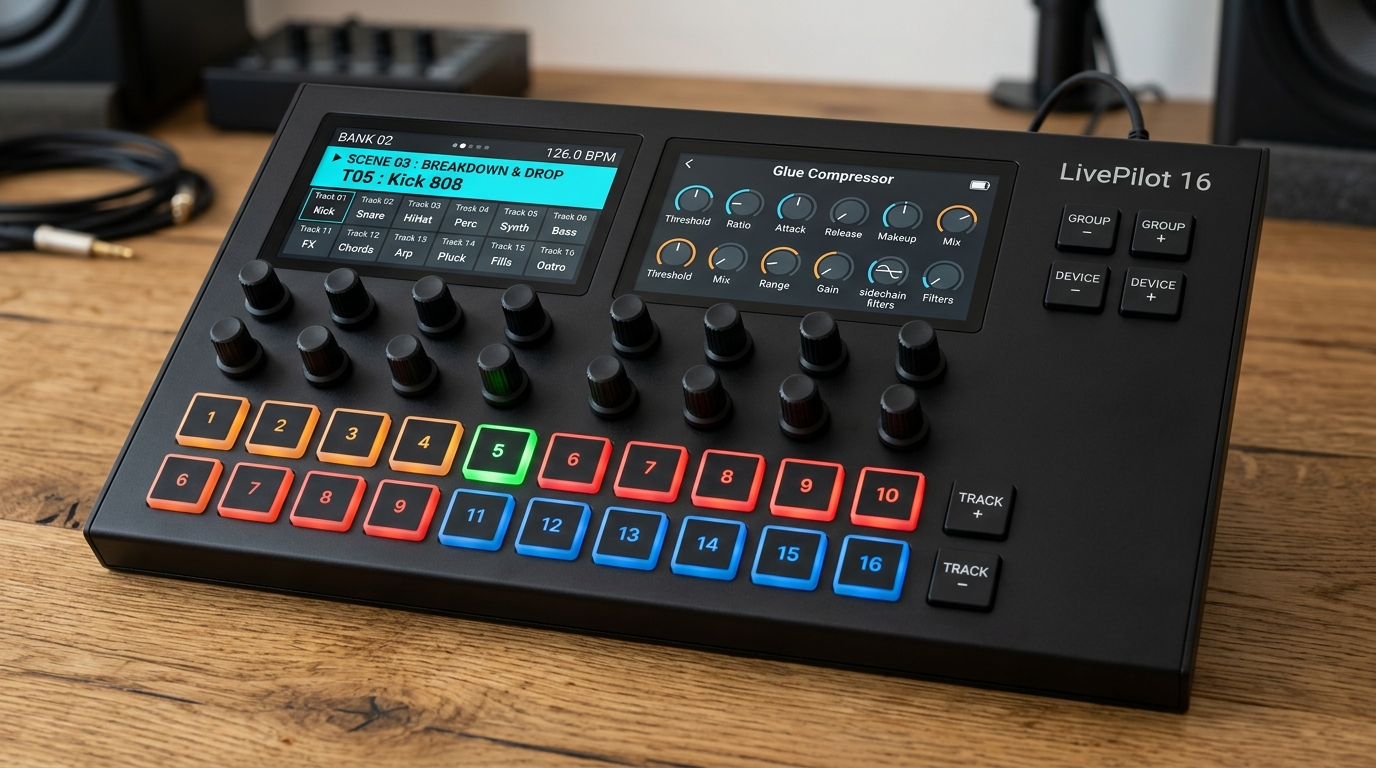
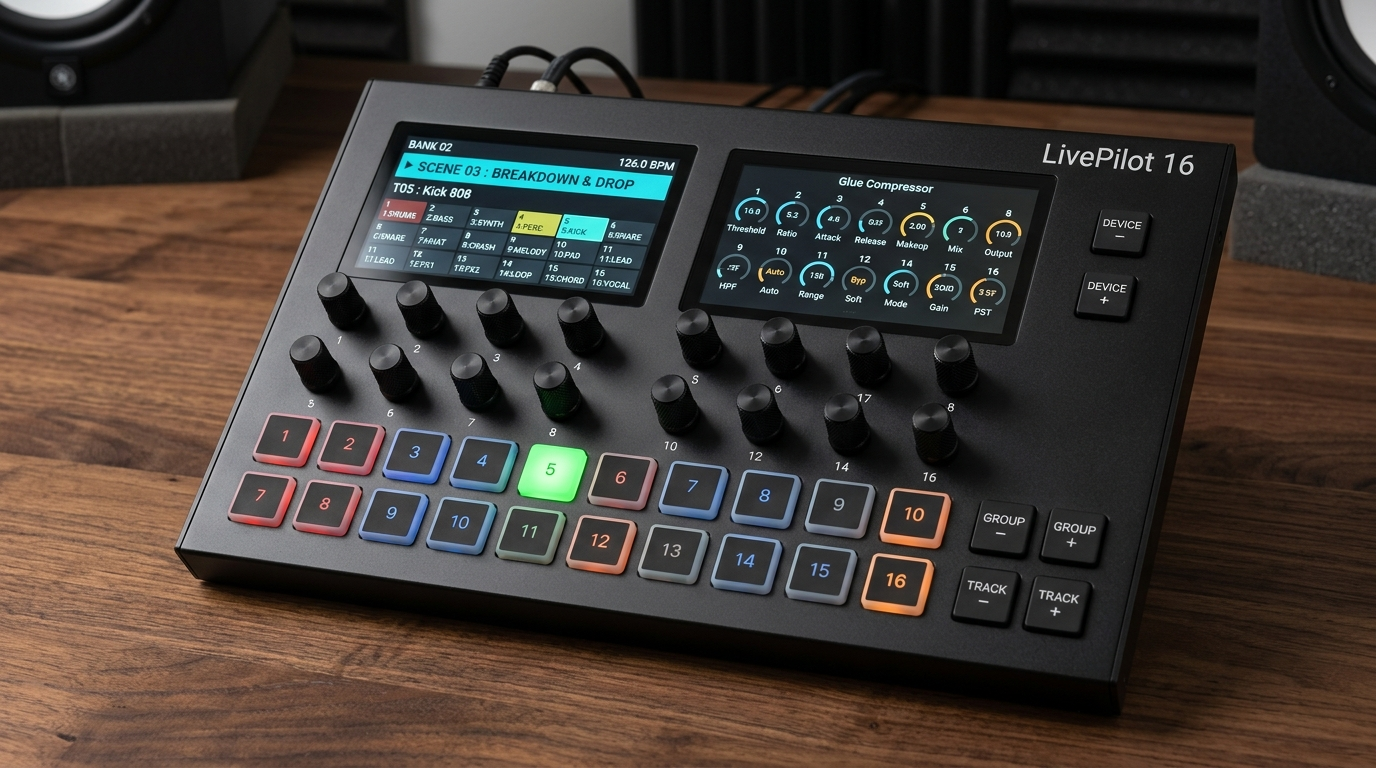
fix(hardware): update 6-nav button layout with TRACK -/+ in bottom row, GROUP -/+ in upper row of 2x2 pad cluster, and DEVICE -/+ near plugin screen

diff --git a/hardware/WIRING_GUIDE.md b/hardware/WIRING_GUIDE.md
@@ -175,15 +175,19 @@ Les 6 boutons de navigation sont câblés directement sur des broches GPIO indé
 
 | Touche de Navigation | Broche ESP32-S3 | Autre Côté du Switch | Emplacement Physique & Rôle |
 |---|---|---|---|
-| **`TRACK +`** | **GPIO 16** | `GND` | **À droite de la Rangée 1 des pads (Pistes 1-8)** : Saut banque suivante (+16) |
-| **`TRACK -`** | **GPIO 15** | `GND` | **À droite de la Rangée 2 des pads (Pistes 9-16)** : Saut banque précédente (-16) |
-| **`GROUP -`** | **GPIO 17** | `GND` | **Cluster Supérieur Droit** : Macro-saut vers le bus/groupe précédent |
-| **`GROUP +`** | **GPIO 18** | `GND` | **Cluster Supérieur Droit** : Macro-saut vers le bus/groupe suivant |
-| **`DEVICE -`** | **GPIO 1** | `GND` | **Cluster Supérieur Droit** : Plugin assigné précédent (si $> 1$) |
-| **`DEVICE +`** | **GPIO 2** | `GND` | **Cluster Supérieur Droit** : Plugin assigné suivant (si $> 1$) |
+| **`GROUP -`** | **GPIO 17** | `GND` | **Pavé Pistes (Rangée Haute, niveau Pistes 1-8, gauche)** : Groupe précédent |
+| **`GROUP +`** | **GPIO 18** | `GND` | **Pavé Pistes (Rangée Haute, niveau Pistes 1-8, droite)** : Groupe suivant |
+| **`TRACK -`** | **GPIO 15** | `GND` | **Pavé Pistes (Rangée Basse, niveau Pistes 9-16, gauche)** : Banque précédente (-16) |
+| **`TRACK +`** | **GPIO 16** | `GND` | **Pavé Pistes (Rangée Basse, niveau Pistes 9-16, droite)** : Banque suivante (+16) |
+| **`DEVICE -`** | **GPIO 1** | `GND` | **Haut Droit (Niveau Écran Plugins / Encodeurs)** : Plugin assigné précédent (si $> 1$) |
+| **`DEVICE +`** | **GPIO 2** | `GND` | **Haut Droit (Niveau Écran Plugins / Encodeurs)** : Plugin assigné suivant (si $> 1$) |
 
 > [!TIP]
-> **Ergonomie Réflexe Immédiate :** Placer `TRACK +` et `TRACK -` directement dans l'alignement horizontal des touches de pistes permet de changer de banque sans jamais déplacer la paume de la main vers le haut du contrôleur.
+> **Ergonomie Réflexe Immédiate :**  
+> Le pavé 2×2 situé à droite des 16 touches de pistes regroupe toute la navigation de session :
+> * En bas : `TRACK -` et `TRACK +` pour faire défiler les banques de 16 pistes.
+> * Juste au-dessus : `GROUP -` et `GROUP +` pour sauter directement d'un groupe/bus à l'autre.
+> * En haut, face à l'écran de droite : `DEVICE -` et `DEVICE +` pour feuilleter les plugins de la piste active.
 
 *Chaque entrée utilise la résistance de rappel au 3.3V interne de l'ESP32-S3 (`pinMode(pin, INPUT_PULLUP)`). Aucun composant externe n'est requis.*
 

diff --git a/CAHIER_DES_CHARGES.md b/CAHIER_DES_CHARGES.md
@@ -216,12 +216,12 @@ L'interface de **LivePilot 16** a été calibrée pour offrir un confort maximal
 2. **16 Encodeurs Rotatifs (2 rangées de 8)** : Entraxe généreux de **32 mm** (au lieu des 24-26 mm habituels) pour permettre une prise en main des boutons avec les doigts sans heurter les potentiomètres voisins.
 3. **16 Boutons de Pistes RGB (2 rangées de 8)** : Alignés 1:1 sous les encodeurs avec le même pas aéré de **32 mm** (Pistes 1 à 8 en rangée 1, Pistes 9 à 16 en rangée 2).
 4. **6 Boutons de Navigation Dédiés (Positionnement Scénique Réflexe)** :
-   * **`TRACK +`** : Placé directement **à l'extrémité droite de la Rangée 1 des pads** (Pistes 1 à 8), au même niveau physique !
-   * **`TRACK -`** : Placé directement **à l'extrémité droite de la Rangée 2 des pads** (Pistes 9 à 16), au même niveau physique !  
-     *Avantage scénique :* La main navigue entre les banques de pistes sans jamais quitter la rangée des pads.
-   * **Cluster Supérieur Droit (4 touches)** :
-     * `GROUP -` / `GROUP +` : Macro-navigation directe de groupe en groupe / bus en bus.
-     * `DEVICE -` / `DEVICE +` : Navigation intelligente entre plugins assignés (condition $> 1$).
+   * **Pavé Pistes 2×2 (à droite des 16 touches de pistes)** :
+     * **Rangée Basse (niveau Pistes 9 à 16)** : **`TRACK -`** (gauche) et **`TRACK +`** (droite) pour faire défiler les banques de 16 pistes.
+     * **Rangée Haute (niveau Pistes 1 à 8)** : **`GROUP -`** (gauche) et **`GROUP +`** (droite) pour sauter instantanément d'un bus/groupe à l'autre.
+   * **Touches Plugins Haut Droit (niveau Écran Droit & Encodeurs)** :
+     * **`DEVICE -`** et **`DEVICE +`** : Navigation intelligente entre plugins assignés sur la piste active (condition $> 1$).
+   * *Avantage ergonomique absolu :* Les 4 touches de gestion de pistes et groupes (`TRACK -/+` et `GROUP -/+`) sont directement sous la paume droite au niveau des pads, tandis que les 2 touches de plugins (`DEVICE -/+`) sont isolées en haut face à l'écran des plugins !
 5. **Identité Visuelle & Châssis** : Titre du produit **`LivePilot 16`** gravé au laser dans le coin supérieur droit. Châssis monobloc incliné à 15°.
 
 ---

diff --git a/doc/CAHIER_DES_CHARGES.md b/doc/CAHIER_DES_CHARGES.md
@@ -216,12 +216,12 @@ L'interface de **LivePilot 16** a été calibrée pour offrir un confort maximal
 2. **16 Encodeurs Rotatifs (2 rangées de 8)** : Entraxe généreux de **32 mm** (au lieu des 24-26 mm habituels) pour permettre une prise en main des boutons avec les doigts sans heurter les potentiomètres voisins.
 3. **16 Boutons de Pistes RGB (2 rangées de 8)** : Alignés 1:1 sous les encodeurs avec le même pas aéré de **32 mm** (Pistes 1 à 8 en rangée 1, Pistes 9 à 16 en rangée 2).
 4. **6 Boutons de Navigation Dédiés (Positionnement Scénique Réflexe)** :
-   * **`TRACK +`** : Placé directement **à l'extrémité droite de la Rangée 1 des pads** (Pistes 1 à 8), au même niveau physique !
-   * **`TRACK -`** : Placé directement **à l'extrémité droite de la Rangée 2 des pads** (Pistes 9 à 16), au même niveau physique !  
-     *Avantage scénique :* La main navigue entre les banques de pistes sans jamais quitter la rangée des pads.
-   * **Cluster Supérieur Droit (4 touches)** :
-     * `GROUP -` / `GROUP +` : Macro-navigation directe de groupe en groupe / bus en bus.
-     * `DEVICE -` / `DEVICE +` : Navigation intelligente entre plugins assignés (condition $> 1$).
+   * **Pavé Pistes 2×2 (à droite des 16 touches de pistes)** :
+     * **Rangée Basse (niveau Pistes 9 à 16)** : **`TRACK -`** (gauche) et **`TRACK +`** (droite) pour faire défiler les banques de 16 pistes.
+     * **Rangée Haute (niveau Pistes 1 à 8)** : **`GROUP -`** (gauche) et **`GROUP +`** (droite) pour sauter instantanément d'un bus/groupe à l'autre.
+   * **Touches Plugins Haut Droit (niveau Écran Droit & Encodeurs)** :
+     * **`DEVICE -`** et **`DEVICE +`** : Navigation intelligente entre plugins assignés sur la piste active (condition $> 1$).
+   * *Avantage ergonomique absolu :* Les 4 touches de gestion de pistes et groupes (`TRACK -/+` et `GROUP -/+`) sont directement sous la paume droite au niveau des pads, tandis que les 2 touches de plugins (`DEVICE -/+`) sont isolées en haut face à l'écran des plugins !
 5. **Identité Visuelle & Châssis** : Titre du produit **`LivePilot 16`** gravé au laser dans le coin supérieur droit. Châssis monobloc incliné à 15°.
 
 ---
